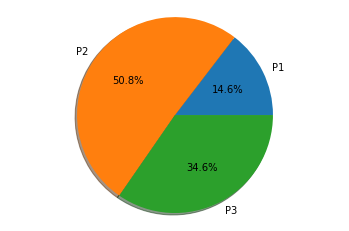
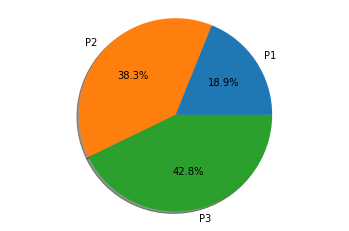
miercoles noche

diff --git a/src/docword.py b/src/docword.py
@@ -3,8 +3,19 @@ import os
 from docx.shared import Cm
 
 # Variables 
+titular_de_la_cuenta = [bd_cliente_estudio_de_ahorro_modelo["Titular_de_la_Cuenta"]
+direccion_suministro = [bd_cliente_estudio_de_ahorro_modelo["Dirección_completa"]
+cups = [bd_cliente_estudio_de_ahorro_modelo["Cups"]
+nueva_comercializadora = the_one_comercializadora["Comercializadora"]
+ahorro_percent = porcentage_de_ahorro[0]
+ahorro_euros = ahorro[0]
+records = [bd_cliente_estudio_de_ahorro_modelo["Precio_Energia_P1"], bd_cliente_estudio_de_ahorro_modelo["Precio_Energia_P2"], bd_cliente_estudio_de_ahorro_modelo["Precio_Energia_P3"]] # precio energia cliente
+records_2 = [bd_cliente_estudio_de_ahorro_modelo["Precio_Potencia_P1"], bd_cliente_estudio_de_ahorro_modelo["Precio_Potencia_P2"], bd_cliente_estudio_de_ahorro_modelo["Precio_Potencia_P3"]] # precio potencia cliente
+records_3 = [the_one_comercializadora["Precio_Energía_P1"],the_one_comercializadora["Precio_Energía_P2"],the_one_comercializadora["Precio_Energía_P3"]] # precio nuevo energia
+records_4 = [the_one_comercializadora["Precio_Potencia_P1"],the_one_comercializadora["Precio_Potencia_P2"],the_one_comercializadora["Precio_Potencia_P3"]] # precio nuevo potencia 
 
-# Pagina 1
+
+# Pagina 1 Word Doc
 
 doc =  docx.Document()
 
@@ -21,32 +32,32 @@ segundo_heading = doc.add_heading('Nuestra Propuesta', 1)
 #valor que insertar
 parag1_propuesta = doc.add_paragraph()
 parag1_propuesta.add_run('Estudio Preparado para: ')
-parag1_propuesta.add_run(a)
+parag1_propuesta.add_run(titular_de_la_cuenta)
 
 #valor que insertar
 parag2_propuesta = doc.add_paragraph()
 parag2_propuesta.add_run('Dirección del punto de suministro: ')
-parag2_propuesta.add_run(b)
+parag2_propuesta.add_run(direccion_suministro)
 
 #valor que insertar
 parag3_propuesta = doc.add_paragraph()
 parag3_propuesta.add_run('CUPS: ')
-parag3_propuesta.add_run(c)
+parag3_propuesta.add_run(cups)
 
 #valor que insertar
 parag9_propuesta = doc.add_paragraph()
 parag9_propuesta.add_run('Este año, la mejor comercializadora para ti es: ')
-parag9_propuesta.add_run(d).bold=True
+parag9_propuesta.add_run(nueva_comercializadora).bold=True
 
 #valor que insertar
 parag4_propuesta = doc.add_paragraph()
 parag4_propuesta.add_run('Ahorro : ')
-parag4_propuesta.add_run(e).bold=True
+parag4_propuesta.add_run(ahorro_percent).bold=True
 
 #valor que insertar
 parag5_propuesta = doc.add_paragraph()
 parag5_propuesta.add_run('Ahorro anual : ')
-parag5_propuesta.add_run(f).bold=True
+parag5_propuesta.add_run(ahorro_euros).bold=True
 
 #valor que insertar. 
 parag6_propuesta = doc.add_paragraph()
@@ -69,7 +80,7 @@ parag10_propuesta.alignment = 1
 parag10_propuesta.paragraph_format.line_spacing = 8
 parag10_propuesta.add_run('¡Apuntate a VIVOLT y nosotros nos ocupamos de siempre el mejor precio').bold=True
 
-# Pagina 2
+# Pagina 2 Word Doc
 doc.add_page_break()
 
 tercer_heading = doc.add_heading('Nuestra Propuesta Detallada', 1).bold=True

diff --git a/src/estudio_ahorro.py b/src/estudio_ahorro.py
@@ -51,6 +51,16 @@ def ahorro_euros():
     ahorro =  importe_factura_año() - importe_nuevas_facturas().values[0]
     return(ahorro)
 
+# Función para sacar el ahorro en porcentaje
 def ahorro_porcentaje():
     porcentage_de_ahorro = (ahorro/actual_coste_anual_cliente)*100
     return(porcentage_de_ahorro)
+
+# Función para crear y guardar un pie_chart con el consumo del cliente.
+def pie_chart_consumo():
+consumo_p1_cliente = list(bd_consumo_energia_cliente[bd_consumo_energia_cliente.columns[-1]][0:3])
+labels = ['P1', 'P2', 'P3']
+sizes = [consumo_p1_cliente[0],consumo_p1_cliente[1], consumo_p1_cliente[2] ]
+plt.pie(sizes, labels=labels, shadow=True, autopct='%1.1f%%')
+plt.axis('equal')
+plt.savefig('../Data/Imagenes/pie_chart_consumo_cliente.png', bbox_inches='tight')
